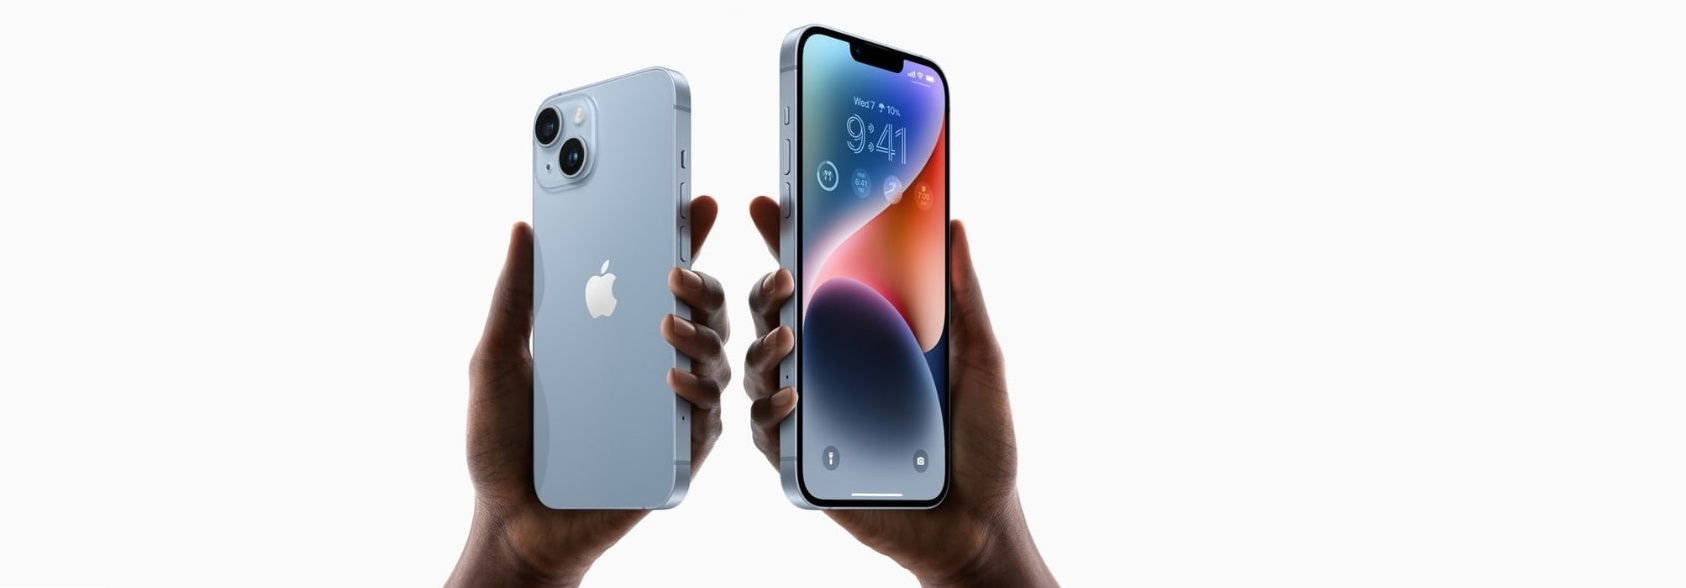
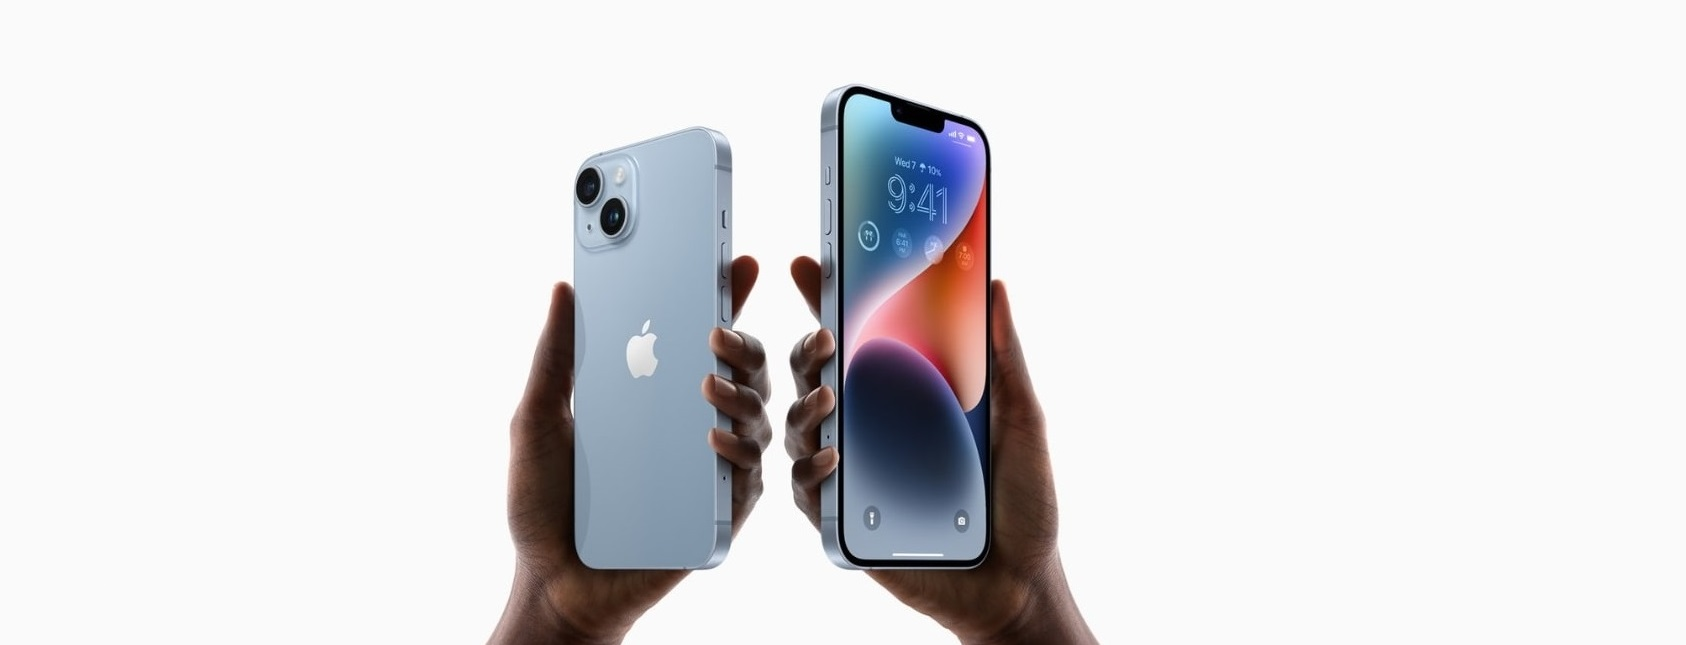
added slides

Changed region(s): [[0.2467, 0.0306, 0.6477, 1.0]]

diff --git a/public/sass/main.scss b/public/sass/main.scss
@@ -254,7 +254,7 @@ section {
 }
 
 header {
-	margin-top: 60px;
+	// margin-top: 60px;
 	.slide-show {
 		position: relative;
 		width: 100%;
@@ -265,21 +265,21 @@ header {
 			position: relative;
 			margin: auto;
 
-			.slide {
-				position: absolute;
-				width: 100%;
-				height: 100%;
-				img {
+				.slide {
+					position: absolute;
 					width: 100%;
 					height: 100%;
-					object-fit: cover;
-					vertical-align: middle;
+					img {
+						width: 100%;
+						height: 100%;
+						object-fit: cover;
+						vertical-align: middle;
+					}
 				}
-			}
-			.fade {
-				animation-name: fade;
-				animation-duration: 1s;
-			}
+				.fade {
+					animation-name: fade;
+					animation-duration: 1s;
+				}
 
 			.prev,
 			.next {

diff --git a/public/sass/main.css b/public/sass/main.css
@@ -218,9 +218,6 @@ section h2 {
   background-color: gray;
 }
 
-header {
-  margin-top: 60px;
-}
 header .slide-show {
   position: relative;
   width: 100%;
